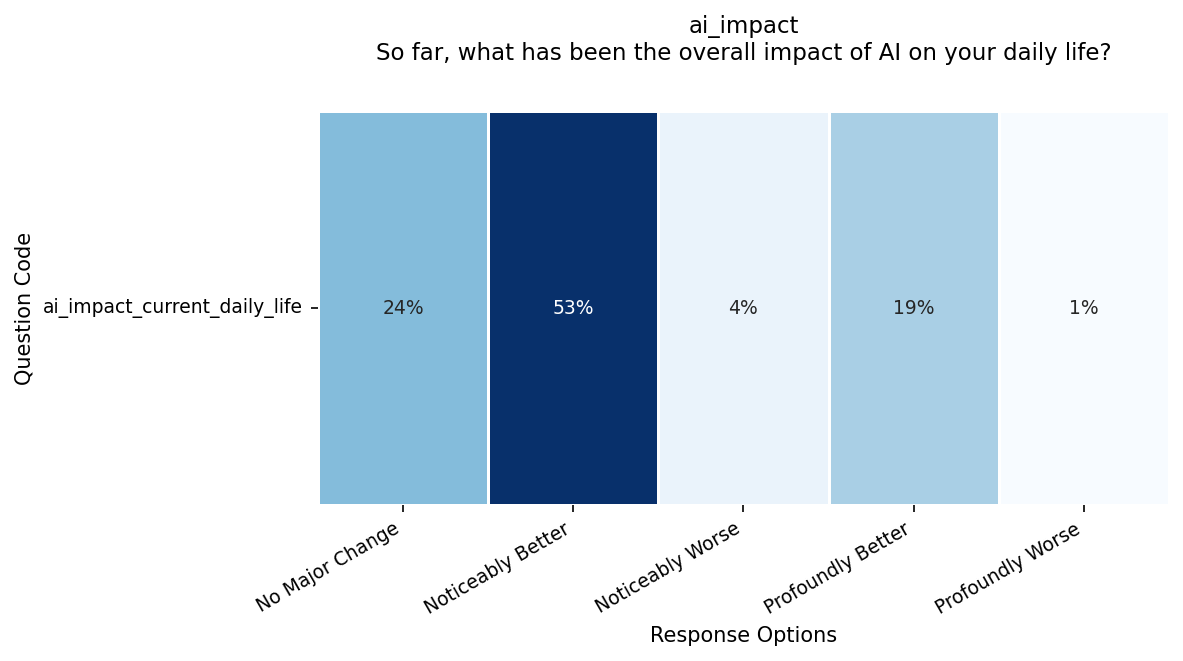
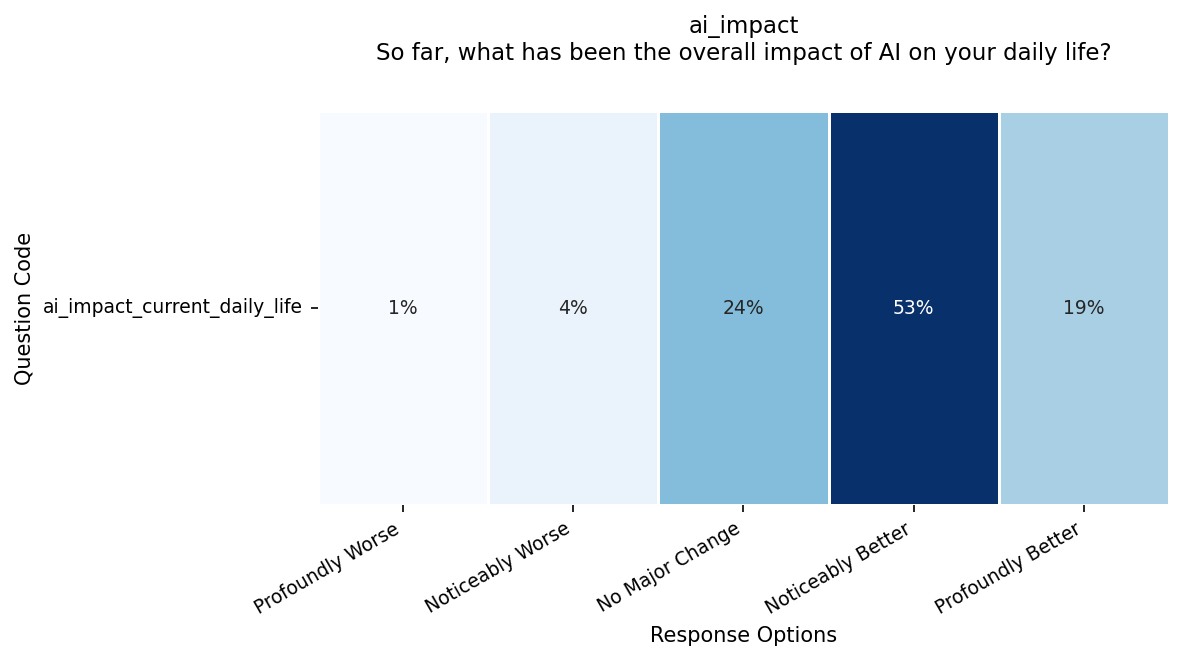
update indicators to appear in order

diff --git a/tools/scripts/calculate_indicators.py b/tools/scripts/calculate_indicators.py
@@ -12,6 +12,43 @@ from lib.analysis_utils import load_standardized_data, parse_percentage
 # Configure logging
 logging.basicConfig(level=logging.INFO, format='%(asctime)s - %(levelname)s - %(message)s')
 
+# --- Semantic Ordering for Responses ---
+# Defines the desired order for common response sets on the heatmap x-axis.
+RESPONSE_ORDERS = {
+    # Trust Scale (Distrust -> Trust)
+    tuple(sorted(("Strongly Distrust", "Somewhat Distrust", "Neither Trust Nor Distrust", "Somewhat Trust", "Strongly Trust"))):
+        ["Strongly Distrust", "Somewhat Distrust", "Neither Trust Nor Distrust", "Somewhat Trust", "Strongly Trust"],
+    # Frequency Scale (Least -> Most Frequent)
+    tuple(sorted(("daily", "weekly", "monthly", "annually", "never"))):
+        ["never", "annually", "monthly", "weekly", "daily"],
+    # Societal Impact Scale (Risk -> Benefit)
+    tuple(sorted(("Risks far outweigh benefits", "Risks slightly outweigh benefits", "Risks and benefits are equal", "Benefits slightly outweigh risks", "Benefits far outweigh risks"))):
+        ["Risks far outweigh benefits", "Risks slightly outweigh benefits", "Risks and benefits are equal", "Benefits slightly outweigh risks", "Benefits far outweigh risks"],
+    # Future/Current Impact Scale (Worse -> Better)
+    tuple(sorted(("Profoundly Worse", "Noticeably Worse", "No Major Change", "Noticeably Better", "Profoundly Better"))):
+        ["Profoundly Worse", "Noticeably Worse", "No Major Change", "Noticeably Better", "Profoundly Better"],
+    # AI Perception Scale (Concerned -> Excited)
+    tuple(sorted(("More excited than concerned", "Equally concerned and excited", "More concerned than excited"))):
+        ["More concerned than excited", "Equally concerned and excited", "More excited than concerned"],
+    # Agree/Disagree/Unsure Scale (Disagree -> Agree)
+    tuple(sorted(("Agree", "Disagree", "Unsure"))):
+        ["Disagree", "Unsure", "Agree"],
+    # Yes/No/Don't Know Scale (No -> Yes)
+    tuple(sorted(("Yes", "No", "Don't Know"))):
+         ["No", "Don't Know", "Yes"],
+    # Automation Impact Scale (Least -> Most Affected)
+    tuple(sorted(("Not at all", "I know someone who has lost their job", "I know several people who have lost their job", "I know many people who have lost their job"))):
+        ["Not at all", "I know someone who has lost their job", "I know several people who have lost their job", "I know many people who have lost their job"]
+}
+
+def get_ordered_columns(columns):
+    """Finds the correct predefined semantic order for a given set of column/response names."""
+    # Sort the input column names to ensure consistent dictionary key lookup
+    sorted_columns_tuple = tuple(sorted(columns))
+    return RESPONSE_ORDERS.get(sorted_columns_tuple)
+
+# --- End Semantic Ordering ---
+
 def longest_common_suffix(strings):
     """Calculates the longest common suffix of a list of strings."""
     if not strings:
@@ -130,6 +167,28 @@ def generate_indicator_heatmaps(standardized_df, indicator_codesheet_path, outpu
         if heatmap_pivot.empty:
             print(f"    Warning: Pivoted data empty for '{category}'."); continue
             
+        # --- >>> Apply Semantic Column Ordering <<< ---
+        try:
+            current_columns = heatmap_pivot.columns.tolist()
+            ordered_columns = get_ordered_columns(current_columns)
+            if ordered_columns:
+                # Filter order to only columns present in the data
+                final_order = [col for col in ordered_columns if col in current_columns]
+                # Apply order only if it perfectly matches the columns present
+                if set(final_order) == set(current_columns):
+                     heatmap_pivot = heatmap_pivot[final_order]
+                     logging.debug(f"    Applied custom column order for '{category}': {final_order}")
+                else:
+                     logging.warning(f"    Custom order definition mismatch for category '{category}'. Columns: {current_columns}. Defined order: {ordered_columns}. Using alphabetical sort.")
+                     heatmap_pivot = heatmap_pivot.sort_index(axis=1) # Fallback to alphabetical
+            else:
+                 logging.debug(f"    No custom column order defined for category '{category}'. Using alphabetical sort. Columns: {current_columns}")
+                 heatmap_pivot = heatmap_pivot.sort_index(axis=1) # Explicit alphabetical sort if no order defined
+        except Exception as sort_e:
+             logging.warning(f"    Error applying column sorting for category '{category}': {sort_e}. Using alphabetical sort.")
+             heatmap_pivot = heatmap_pivot.sort_index(axis=1) # Fallback on any sorting error
+        # --- <<< END Semantic Column Ordering >>> ---
+
         # --- Plotting (same logic as before) ---
         n_rows, n_cols = heatmap_pivot.shape
         fig_width = max(8, n_cols * 0.9 + max(0, max_lines_in_ylabel -1) * 1.5 )
